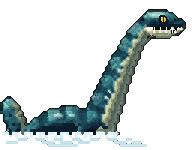
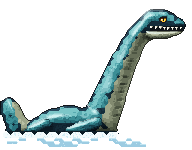
Plesiosaur painted in HD: wet glossy skin, paddle flippers, its water traced
Painted over its drawing: the teal hide smooth and wet, with a sharp sheen
along the lit side of every form (Gloss, gloss.go), dark across the eye,
the pale throat creased at the root of the neck, its paddle flippers held
along its side at the waterline, long needle teeth over the pale lower jaw.
The drawing's foam and ripples are traced smoothly at the finer size
(Trace, Clear) instead of in blocks. The rig's jaw line moves down to
the mouth so the painted upper teeth stay with the head when it strikes.

Changed region(s): [[0.0, 0.0533, 0.9688, 0.9867]]

diff --git a/internal/dinopaint/plesio.go b/internal/dinopaint/plesio.go
@@ -1,0 +1,130 @@
+package dinopaint
+
+import "image/color"
+
+// The sea serpent: dinos/plesio.png, 64 x 50, facing right, a plesiosaur
+// swimming at the surface, its long neck raised, the water's foam and
+// ripples drawn under it. Its rig is "plesio" in
+// internal/client/dinorigs.go: the neck and head turn about (34, 40); the
+// jaw opens about (51.5, 10.15) along the line to (60.6, 10.25), the
+// upper teeth painted above that line.
+
+var (
+	plesioTeal = []uint32{0x0a1a22, 0x0f2a34, 0x16404c, 0x1e5864, 0x2a727c, 0x3c8e96, 0x58aab0, 0x7cc6c8}
+	plesioIris = []uint32{0x4a2a04, 0x7a4a06, 0xb07808, 0xdca414, 0xffc838, 0xffe68a}
+	plesioFang = []uint32{0x6a6a5c, 0x9a9a88, 0xc4c2ae, 0xe2e0cc, 0xf6f4e6, 0xfffdf4}
+)
+
+func init() { Register(plesio()) }
+
+// plesioWater is the drawing's water: the foam along the waterline and the
+// ripples under it.
+var plesioWater = Poly(-1, 43.7, 65, 43.7, 65, 51, -1, 51)
+
+func plesio() *Species {
+	tail := Path([3]float64{2.8, 33.4, 1.6}, [3]float64{4.4, 37.6, 2.5}, [3]float64{7.6, 42.4, 3}) // its tail, curled up out of the water
+	body := Blend(3,
+		tail,
+		Ellipse(22.5, 42.4, 14.5, 6.8, 0),
+	)
+	neck := Blend(2,
+		Path([3]float64{34.2, 41, 5}, [3]float64{36, 30, 4.6}, [3]float64{40.6, 20, 4}, [3]float64{44.2, 12.6, 3.4}, [3]float64{47.4, 8.6, 3.2}),
+		Ellipse(33, 40, 5, 4, -1),
+	)
+	head := Blend(1.2,
+		Poly(44, 8, 47, 4.6, 50, 3.2, 56, 3.1, 59.2, 4.4, 61.8, 6.4, 62.6, 8.6, 61.8, 10.4, 60.6, 11.6, 56, 12.6, 51, 12.9, 47.6, 12.3, 45, 11),
+		Circle(47.4, 8.6, 3.2),
+	)
+	jaw := Poly(48.6, 10.2, 61.6, 10.2, 60.6, 11.6, 56, 12.6, 51, 12.9, 48.4, 11.8)
+	// The near flippers, paddles held flat along its side at the waterline.
+	fore := Blend(0.6, Cone(32.4, 40.6, 1.7, 27.2, 42.4, 1.9), Cone(27.2, 42.4, 1.85, 22.4, 43.3, 0.7))
+	hind := Blend(0.6, Cone(15.4, 40.8, 1.3, 12.2, 42.4, 1.35), Cone(12.2, 42.4, 1.3, 9, 43.2, 0.5))
+	return &Species{
+		Name:        "plesio",
+		GuideDetail: 0.25,
+		Ink:         20,
+		Recolor: []Recolor{
+			// The guide's teeth are painted again; under them the lips.
+			{Region: Poly(47, 8.4, 63, 8.4, 63, 11, 47, 11), From: []string{"foam", "pale"}, To: "dark"},
+		},
+		Materials: []Material{
+			{Name: "teal", Seeds: []uint32{0x3a808a, 0x5ea4a6, 0x26606e, 0x1d4856, 0x1a4656, 0x94cac4, 0x659ca4, 0x81b8ba, 0xa8c9ca, 0xaacfd0, 0xafd7d6, 0xc1e5e2, 0x4f707b},
+				Ramp: plesioTeal},
+			// Dark across the eye and along the back of the head, and the
+			// shadowed side under the waterline.
+			{Name: "dark", Seeds: []uint32{0x0b1e2c, 0x12303f, 0x143342, 0x0d2230, 0x102025, 0x17292d, 0x0a171d},
+				Ramp: []uint32{0x050c12, 0x08121a, 0x0c1a24, 0x10222e, 0x142b38, 0x1a3544, 0x204052, 0x284c60}, Bias: 0.04},
+			// The pale throat and belly.
+			{Name: "pale", Seeds: []uint32{0xbcbe98, 0x8e9a7e, 0x5e6e62, 0xe0dab4, 0x41505a, 0x333738, 0x202725, 0x171e1f},
+				Ramp: []uint32{0x22261e, 0x343a2e, 0x4c5442, 0x666e58, 0x828a70, 0x9ea68a, 0xbac0a4, 0xd4d8c0}, Relief: 0.4, Smooth: 0.55},
+			{Name: "foam", Seeds: []uint32{0xffffff, 0xd6f0f6, 0xf4f0e0, 0xf8f2d6}, Ramp: plesioTeal},
+			{Name: "ripple", Seeds: []uint32{0x96c8e0, 0xa0d0e4}, Ramp: plesioTeal},
+		},
+		Parts: []Part{
+			{Name: "body", Shape: body, Round: 5, Soft: 0.9, Scale: 1, Muscles: []Muscle{
+				Mu(22, 38.5, 9, 3.5, 0, 1.2),     // the broad back
+				Mu(30, 38.5, 4, 3, 0.4, 1.0),     // the shoulders
+				Mu(4.6, 37, 1.8, 3.4, -0.4, 0.7), // the tail
+			}},
+			{Name: "hind", Shape: hind, Round: 1.2, Soft: 0.6, Scale: 0.6, Mat: "teal", Muscles: []Muscle{
+				Mu(13.6, 41.4, 1.8, 0.8, -0.4, 0.4),
+			}},
+			{Name: "neck", Shape: neck, Round: 4, Soft: 0.9, Scale: 0.9, Onto: "body", Seam: Below(20, 50, 40, 50), Muscles: []Muscle{
+				Mu(36.6, 31, 6, 2.2, -1.25, 0.9), // the long muscles of the neck
+				Mu(41, 20.5, 5, 1.9, -1.1, 0.8),
+				Mu(44.4, 13, 3.4, 1.6, -0.9, 0.6),
+			}},
+			{Name: "head", Shape: head, Round: 2.4, Soft: 0.7, Scale: 0.7, Onto: "neck", Seam: Below(40, 14, 64, 14), Muscles: []Muscle{
+				Mu(51, 5.6, 3.4, 1.6, 0, 0.9),   // the skull
+				Mu(55.6, 4.8, 1.6, 0.9, 0, 0.8), // the brow over the eye
+				Mu(59.6, 7, 2.4, 1.6, 0.3, 0.6), // the snout
+			}},
+			{Name: "jaw", Shape: jaw, Round: 1.2, Soft: 0.5, Scale: 0.6, Mat: "pale", Muscles: []Muscle{
+				Mu(54, 11.4, 4, 0.9, 0, 0.4),
+			}},
+			{Name: "fore", Shape: fore, Round: 1.5, Soft: 0.6, Scale: 0.6, Mat: "teal", Muscles: []Muscle{
+				Mu(28.4, 41.6, 3, 1.1, -0.3, 0.6), // the paddle's thick leading edge
+			}},
+		},
+		Skin: Skin{Flank: 1.6, Back: 2.0, Belly: 1.3, BackDepth: 3, BellyDepth: 3, Relief: 0.45, Seed: 71},
+		Folds: []Fold{
+			// Creases across the pale throat, close at the root of the neck.
+			{Pts: []float64{37.4, 38.6, 40.2, 38.2}, N: 5, DX: 0.6, DY: -2.6, Depth: 0.9},
+			{Pts: []float64{40.4, 25.4, 43, 25.6}, N: 4, DX: 0.9, DY: -2.6, Depth: 0.7},
+			// The lines between the flippers' bones.
+			{Pts: []float64{31, 41.6, 24.4, 43.1}, N: 1, Depth: 0.6},
+		},
+		Details: plesioDetails,
+	}
+}
+
+func plesioDetails(p *Painter) {
+	// The skin is wet: a sharp sheen along the lit side of every form.
+	p.Gloss(GlossSpec{Region: Cut(Poly(-1, -1, 65, -1, 65, 51, -1, 51), plesioWater), Strength: 0.75, Sharp: 22, Tint: 0xeaffff, Steps: 3})
+	// Long, thin teeth hanging over the lower jaw, then the lips' edge.
+	p.Teeth(TeethSpec{X0: 50, Y0: 8.75, X1: 61.2, Y1: 8.95, Bottom: 10.15, N: 8, Len: 1.5,
+		Ramp: plesioFang, Gap: 0x0c1418, Seed: 9})
+	p.Eye(EyeSpec{X: 54.4, Y: 6.4, R: 0.85, Iris: plesioIris, Slit: true, Lid: 0.25, Squint: 1.3})
+	p.Nostril(60.8, 6.2, 0.45, 0.3, -0.3)
+	// The water, as drawn but traced smoothly: the body dark at the
+	// waterline, white foam along it flecked with blue, and the ripples
+	// with the light catching on their tops.
+	p.Clear(plesioWater)
+	isFoam := func(g color.NRGBA) bool { return lum(g) > 225 }
+	isRipple := func(g color.NRGBA) bool { return lum(g) > 170 && lum(g) <= 225 && g.B > g.R }
+	p.Trace(plesioWater, func(g color.NRGBA) bool { return !isFoam(g) && !isRipple(g) }, func(px, py int) color.NRGBA {
+		return rgb([]uint32{0x0a1820, 0x0d1e28, 0x10242e}[int(hash(px, py, 75)*3)])
+	})
+	p.Trace(plesioWater, isRipple, func(px, py int) color.NRGBA {
+		if !p.Inside(px, py-1) || hash(px, py, 79) < 0.05 {
+			return rgb(0xc4e6f2) // the lit top of a ripple
+		}
+		return rgb(0x9ccce2)
+	})
+	p.Trace(plesioWater, isFoam, func(px, py int) color.NRGBA {
+		if hash(px, py, 77) < 0.16 {
+			return rgb(0xd2ecf4)
+		}
+		return rgb(0xf4fbfc)
+	})
+}

diff --git a/internal/dinopaint/gloss.go b/internal/dinopaint/gloss.go
@@ -1,0 +1,90 @@
+package dinopaint
+
+import (
+	"image/color"
+	"math"
+)
+
+// GlossSpec is the sheen of wet skin: highlights where the surface turns
+// the light from the top left straight back to the eye, sharp as on
+// something wet.
+type GlossSpec struct {
+	Region   SDF     // where the skin is wet (nil: everywhere)
+	Strength float64 // how white the brightest of it goes (0 to 1)
+	Sharp    float64 // the highlight's exponent: higher, smaller and sharper (0: 24)
+	Tint     uint32  // the light's colour
+	Steps    int     // how many tones it is drawn in, pixel art style (0: 3)
+}
+
+// Gloss lays a wet sheen over the hide painted so far (not over details):
+// a few hard-edged tones of the light's colour on the forms facing the
+// reflection of the light.
+func (p *Painter) Gloss(g GlossSpec) {
+	sharp := g.Sharp
+	if sharp == 0 {
+		sharp = 24
+	}
+	steps := g.Steps
+	if steps == 0 {
+		steps = 3
+	}
+	// The half-way vector between the light and the eye (straight out of
+	// the screen).
+	h := norm3(Light.x, Light.y, Light.z+1)
+	tint := rgb(g.Tint)
+	for py := 0; py < p.H; py++ {
+		for px := 0; px < p.W; px++ {
+			i := py*p.W + px
+			if !p.In[i] || p.Pro[i] {
+				continue
+			}
+			if g.Region != nil {
+				if x, y := G(px, py); g.Region(x, y) > 0 {
+					continue
+				}
+			}
+			s := math.Pow(clamp01(p.Nrm[i].dot(h)), sharp)
+			k := math.Floor(s * float64(steps+1))
+			if k < 1 {
+				continue
+			}
+			t := g.Strength * k / float64(steps)
+			p.Out[i] = Mix(p.Out[i], tint, t)
+		}
+	}
+}
+
+// Trace paints, inside s, the guide's pixels for which is holds, traced
+// smoothly three times as fine as the guide (not in 3x3 blocks), with
+// paint; they are added to the silhouette and left without an outline.
+func (p *Painter) Trace(s SDF, is func(g color.NRGBA) bool, paint func(px, py int) color.NRGBA) {
+	m := NewField(p.GW, p.GH)
+	for i, g := range p.Guide {
+		if p.GSolid[i] && is(g) {
+			m.V[i] = 1
+		}
+	}
+	m = m.Blur(0.5)
+	for py := 0; py < p.H; py++ {
+		for px := 0; px < p.W; px++ {
+			x, y := G(px, py)
+			if s(x, y) > 0 || m.Sample(x, y) < 0.5 {
+				continue
+			}
+			i := py*p.W + px
+			p.In[i], p.Out[i], p.Pro[i] = true, paint(px, py), true
+		}
+	}
+}
+
+// Clear takes everything inside s out of the silhouette, but what a
+// detail has painted.
+func (p *Painter) Clear(s SDF) {
+	for py := 0; py < p.H; py++ {
+		for px := 0; px < p.W; px++ {
+			if x, y := G(px, py); s(x, y) <= 0 && !p.Pro[py*p.W+px] {
+				p.In[py*p.W+px] = false
+			}
+		}
+	}
+}

diff --git a/internal/client/dinorigs.go b/internal/client/dinorigs.go
@@ -168,9 +168,10 @@ var dinoRigs = map[string]dinoRig{
 	},
 	"plesio": {
 		file: "plesio", ax: 23, ay: 45,
-		head:  rigPart{pivot: rigPt{34, 40}, dir: headUp(0.9), maxY: 45},
-		jaw:   [2]rigPt{{51.5, 9.5}, {60.5, 9.6}},
-		teeth: true,
+		head:       rigPart{pivot: rigPt{34, 40}, dir: headUp(0.9), maxY: 45},
+		jaw:        [2]rigPt{{51.5, 10.15}, {60.6, 10.25}}, // the upper teeth are above this line, in the drawing
+		teeth:      true,
+		drawnTeeth: true,
 	},
 	"pteroPerch": {file: "ptero_perch", ax: 28, ay: 38},
 	// The fliers are seen from above, heading right: the far wing up the

diff --git a/internal/client/dinos/hd/gen.py b/internal/client/dinos/hd/gen.py
@@ -23,7 +23,7 @@ HERE = os.path.dirname(os.path.abspath(__file__))
 # teeth: the box of the mouth, where pale pixels are teeth.
 # Painted by hand-written descriptions in Go instead (internal/dinopaint,
 # cmd/dinopaint; see README.md here): this script leaves them alone.
-PAINTED = {'rex', 'trike', 'toro', 'stego', 'thesc', 'brachio'}
+PAINTED = {'rex', 'trike', 'toro', 'stego', 'thesc', 'brachio', 'plesio'}
 
 CFG = {
     'rex':         dict(skin='scale', cell=(5, 4), eyes=[(87, 20, 88, 20)], slit=True, teeth=(82, 31, 105, 34)),
